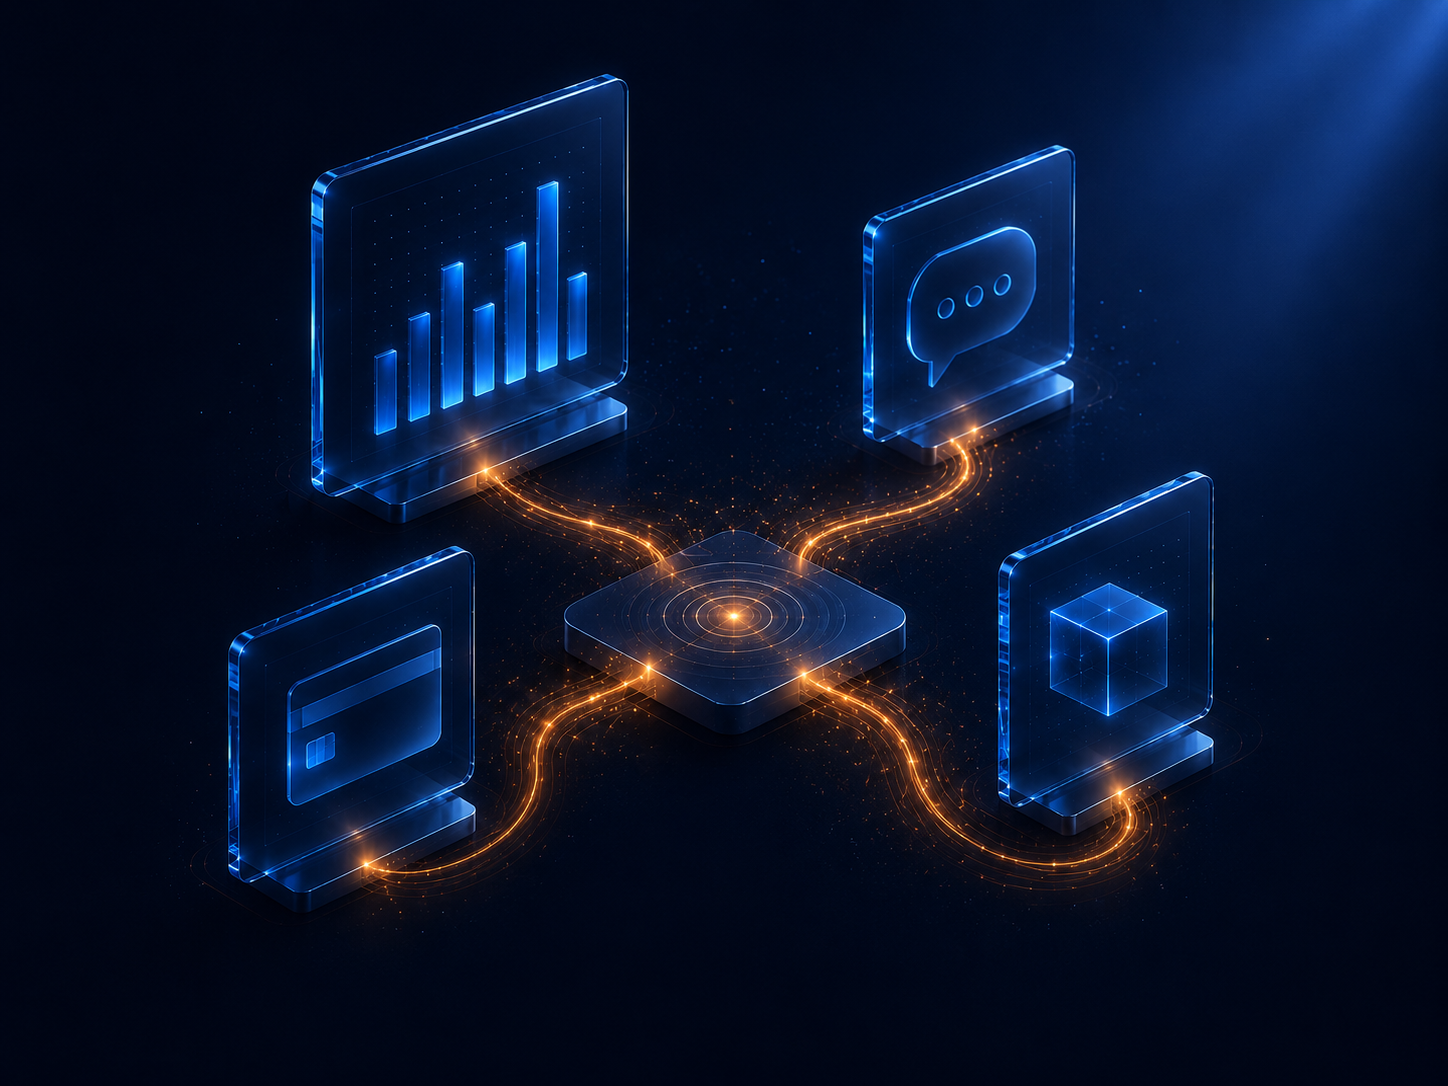
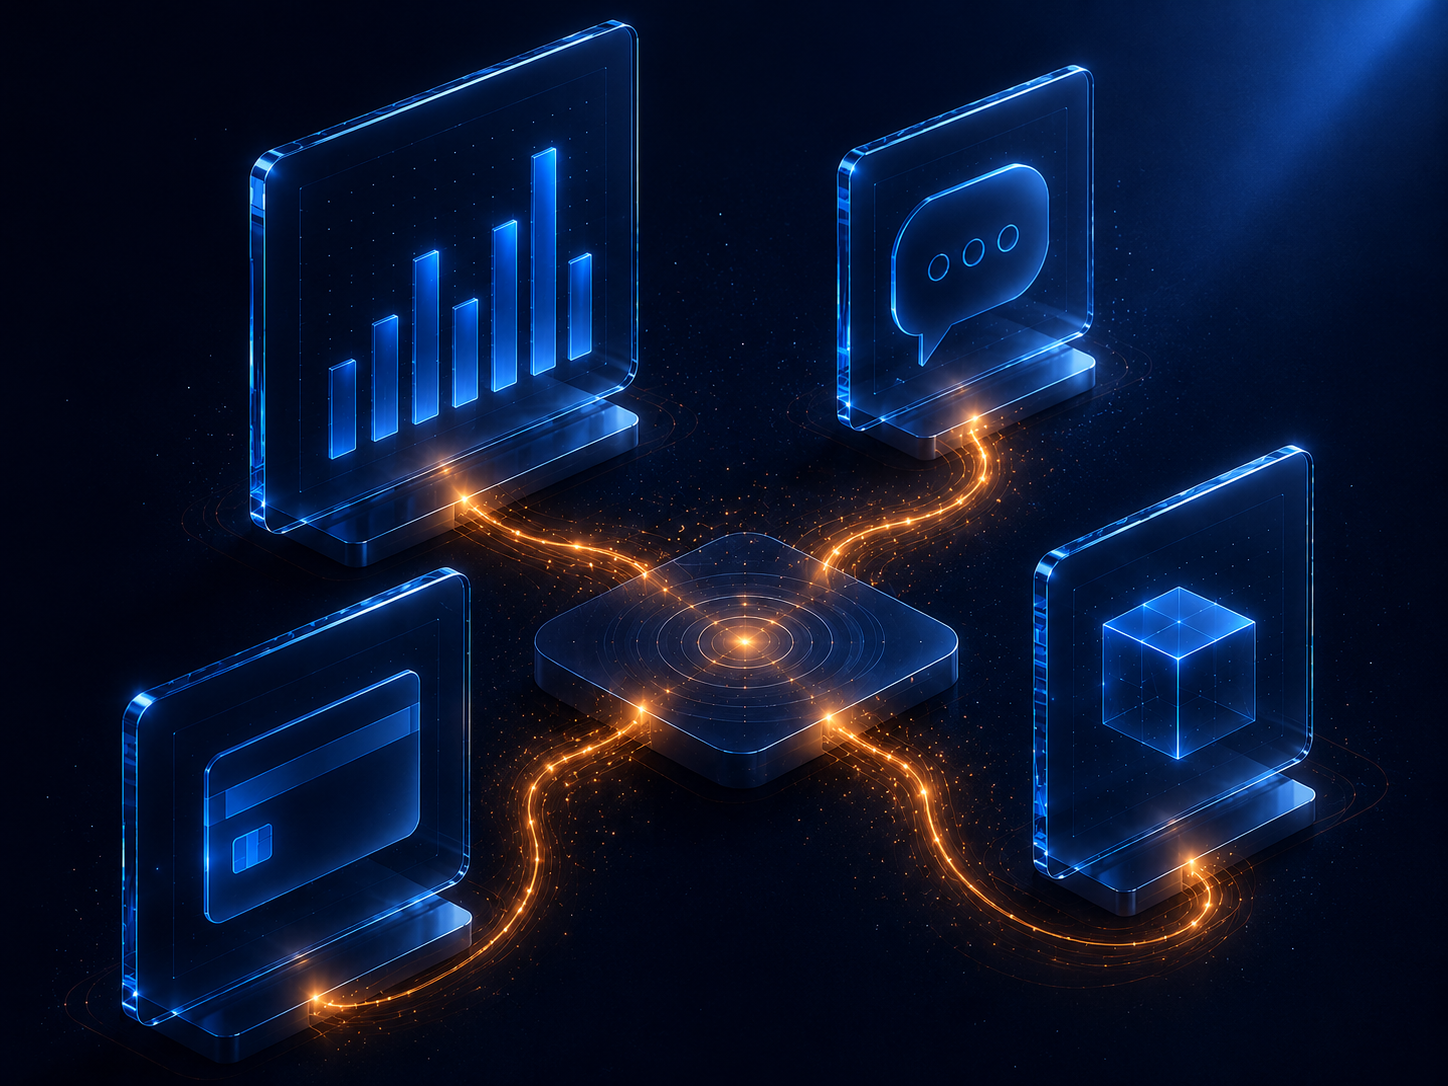
ё11

Changed region(s): [[0.0622, 0.0, 0.9323, 0.9724], [0.808, 0.0, 1.0, 0.395]]

diff --git a/index.html b/index.html
@@ -6,7 +6,7 @@
     <title>Система продажів для експертів</title>
     <link rel="preconnect" href="https://fonts.googleapis.com">
     <link rel="preconnect" href="https://fonts.gstatic.com" crossorigin>
-    <link href="https://fonts.googleapis.com/css2?family=Inter:wght@200;300;400;500;600;700&family=Montserrat:wght@300;400;500;600;700&family=Manrope:wght@300;400;500;600;700&family=Geist:wght@300;400;500;600;700&display=swap" rel="stylesheet">
+    <link href="https://fonts.googleapis.com/css2?family=Inter:wght@200;300;400;500;600;700&family=Montserrat:wght@300;400;500;600;700&family=Manrope:wght@200..800&family=Geist:wght@300;400;500;600;700&display=swap" rel="stylesheet">
     <script src="https://code.iconify.design/iconify-icon/1.0.7/iconify-icon.min.js"></script>
 </head>
 <body>

diff --git a/src/sections/HeroSection.jsx b/src/sections/HeroSection.jsx
@@ -67,7 +67,7 @@ export default function HeroSection() {
                   style={{ fontFamily: fontStack, textWrap: 'balance' }}
                 >
                   <span className="anim-wrap">
-                    <span className="anim-line" style={{ transitionDelay: '0.1s' }}>
+                    <span className="anim-line font-medium" style={{ transitionDelay: '0.1s' }}>
                       Система продажу
                     </span>
                   </span>{' '}
